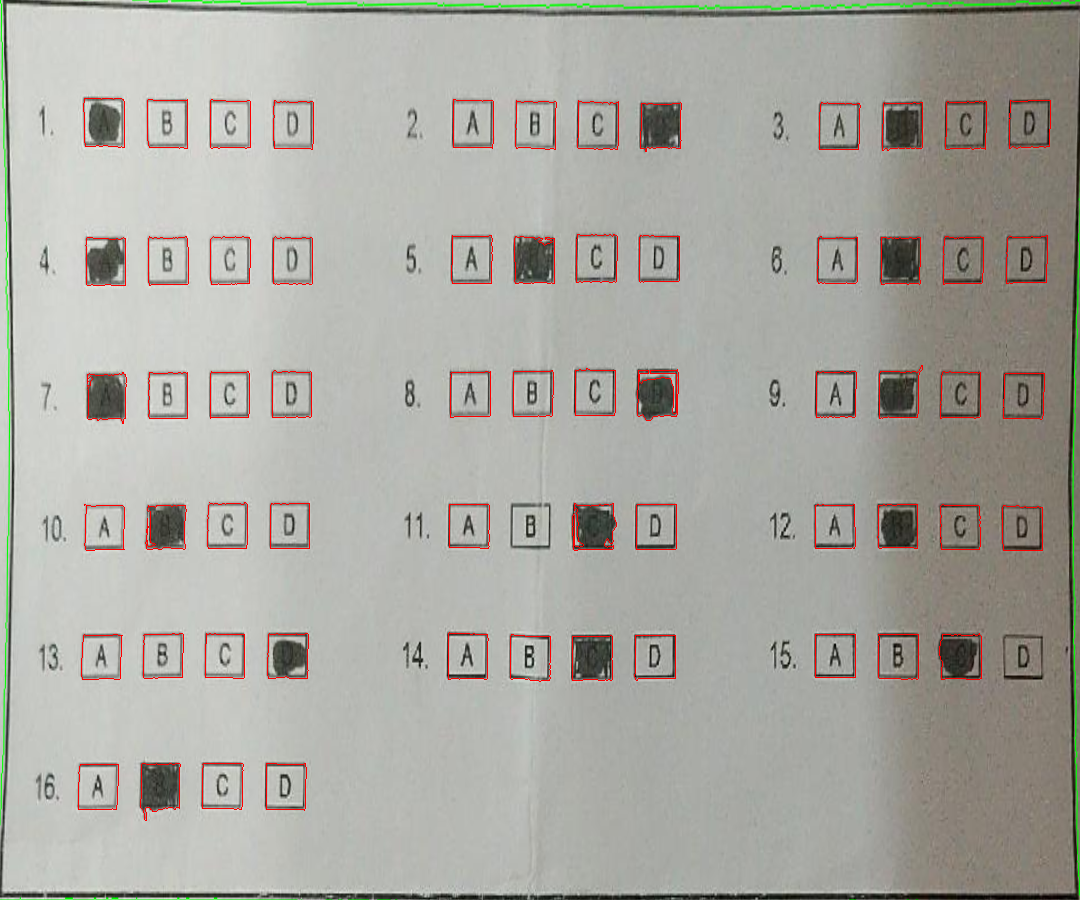
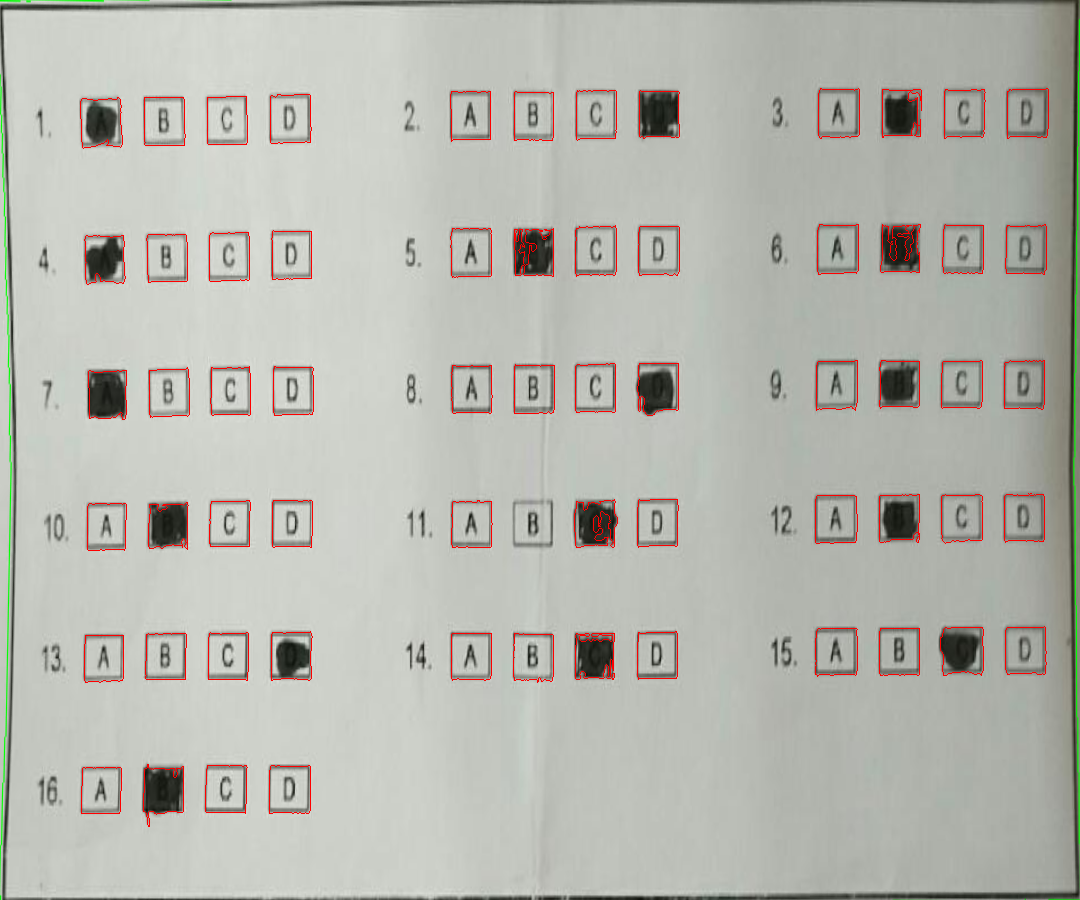
0003 通过没有什么变化

diff --git a/answer-sheet-scan/test_sheet.py b/answer-sheet-scan/test_sheet.py
@@ -4,7 +4,7 @@ import cv2,math
 import time
 
 start = time.clock()
-base_img = cv2.imread('img/new/0002.jpg')
+base_img = cv2.imread('img/new/0003.jpg')
 get_answer_from_sheet(base_img)
 end = time.clock()
 print "get_answer_from_sheet: %f s" % (end - start)
